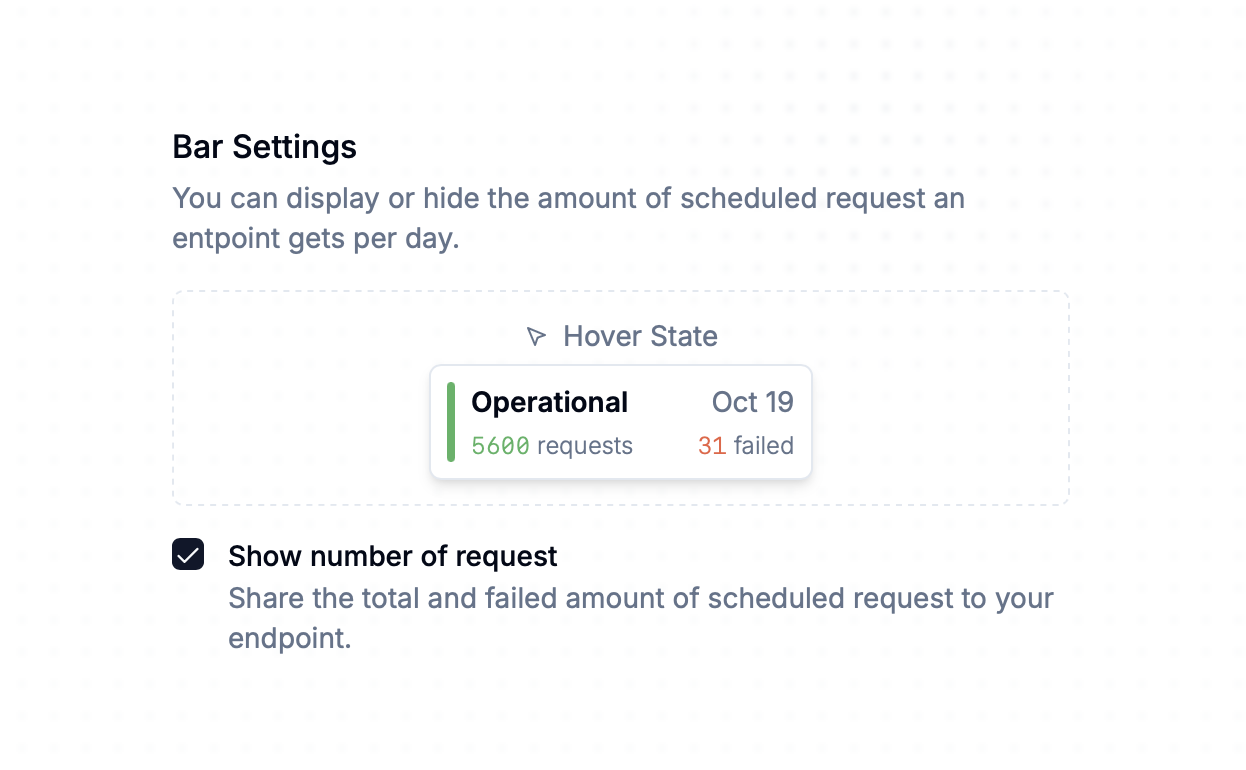
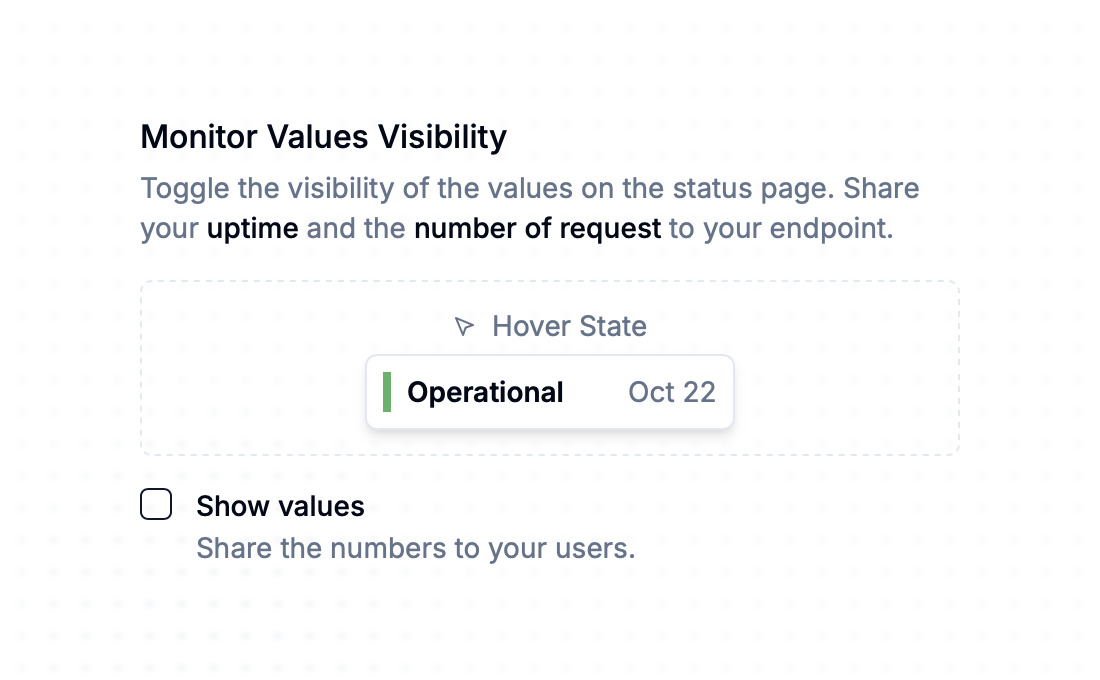
wip:

diff --git a/apps/web/src/components/forms/status-page/section-advanced.tsx b/apps/web/src/components/forms/status-page/section-advanced.tsx
@@ -163,8 +163,18 @@ export function SectionAdvanced({ form }: Props) {
       />
       <div className="grid w-full gap-4 md:grid-rows-2 md:grid-cols-3 md:col-span-full">
         <SectionHeader
-          title="Bar Settings"
-          description="You can display or hide the amount of scheduled request an entpoint gets per day."
+          title="Monitor Values Visibility"
+          description={
+            <>
+              Toggle the visibility of the values on the status page. Share your{" "}
+              <span className="font-medium text-foreground">uptime</span> and
+              the{" "}
+              <span className="font-medium text-foreground">
+                number of request
+              </span>{" "}
+              to your endpoint.
+            </>
+          }
           className="md:col-span-2"
         />
         <div className="group md:row-span-2 flex flex-col justify-center gap-1 border border-dashed rounded-md p-3">
@@ -197,10 +207,9 @@ export function SectionAdvanced({ form }: Props) {
                 />
               </FormControl>
               <div className="space-y-1 leading-none">
-                <FormLabel>Show number of request</FormLabel>
+                <FormLabel>Show values</FormLabel>
                 <FormDescription>
-                  Share the total and failed amount of scheduled request to your
-                  endpoint.
+                  Share the numbers to your users.
                 </FormDescription>
               </div>
             </FormItem>

diff --git a/apps/web/src/config/pricing-table.tsx b/apps/web/src/config/pricing-table.tsx
@@ -80,7 +80,7 @@ export const pricingTableConfig: Record<
         value: "monitor-values-visibility",
         label: "Toggle numbers visibility",
         description: renderChangelogDescription(
-          "status-page-monitor-values-visibility"
+          "status-page-monitor-values-visibility",
         ),
       },
       {
@@ -95,7 +95,7 @@ export const pricingTableConfig: Record<
         value: "password-protection",
         label: "Password-protected",
         description: renderChangelogDescription(
-          "password-protected-status-page"
+          "password-protected-status-page",
         ),
       },
       {
